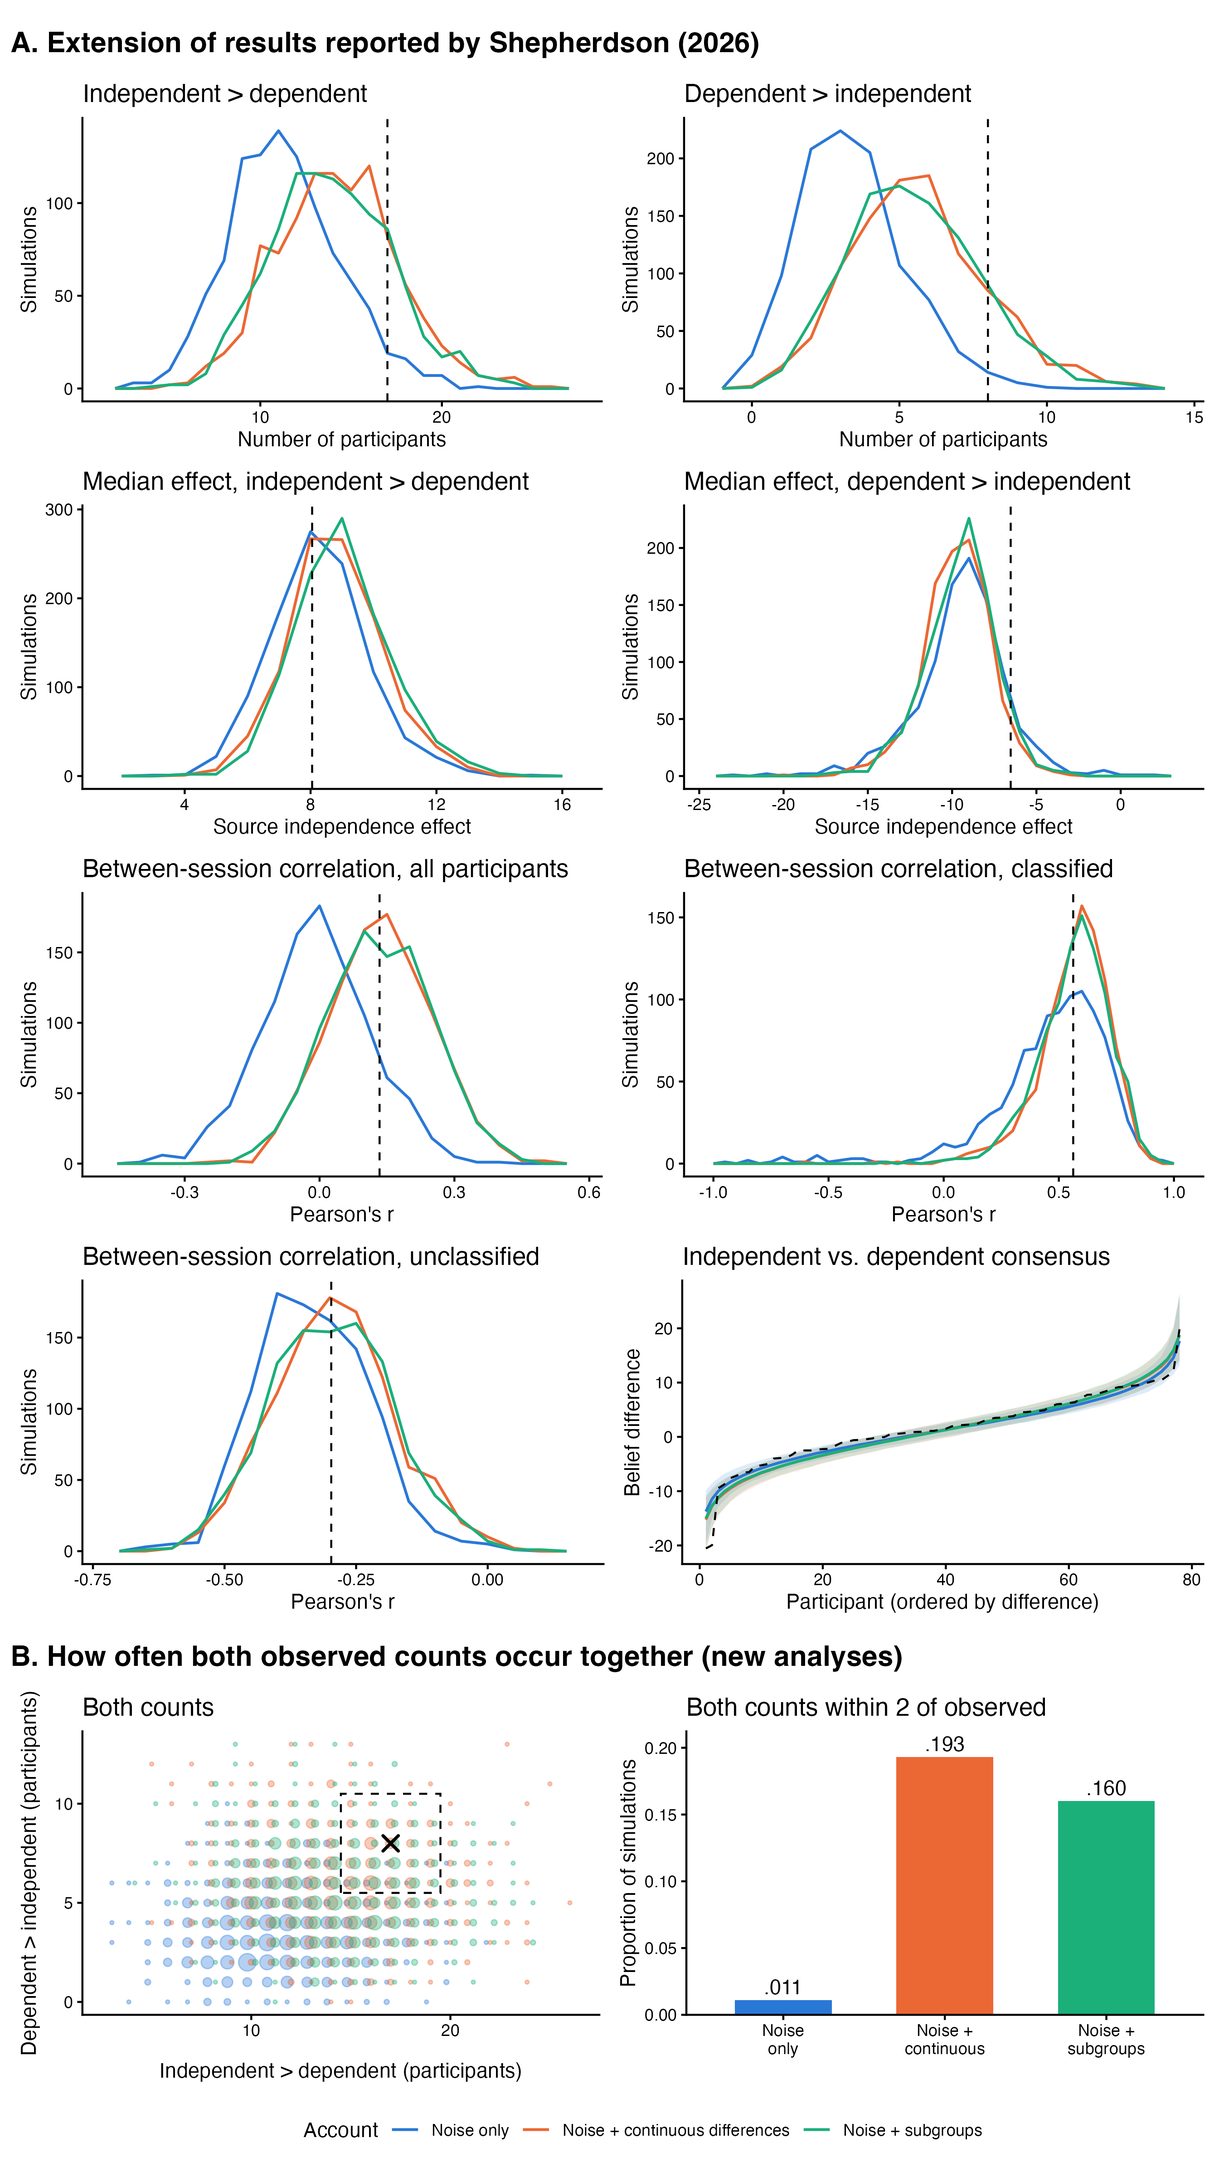
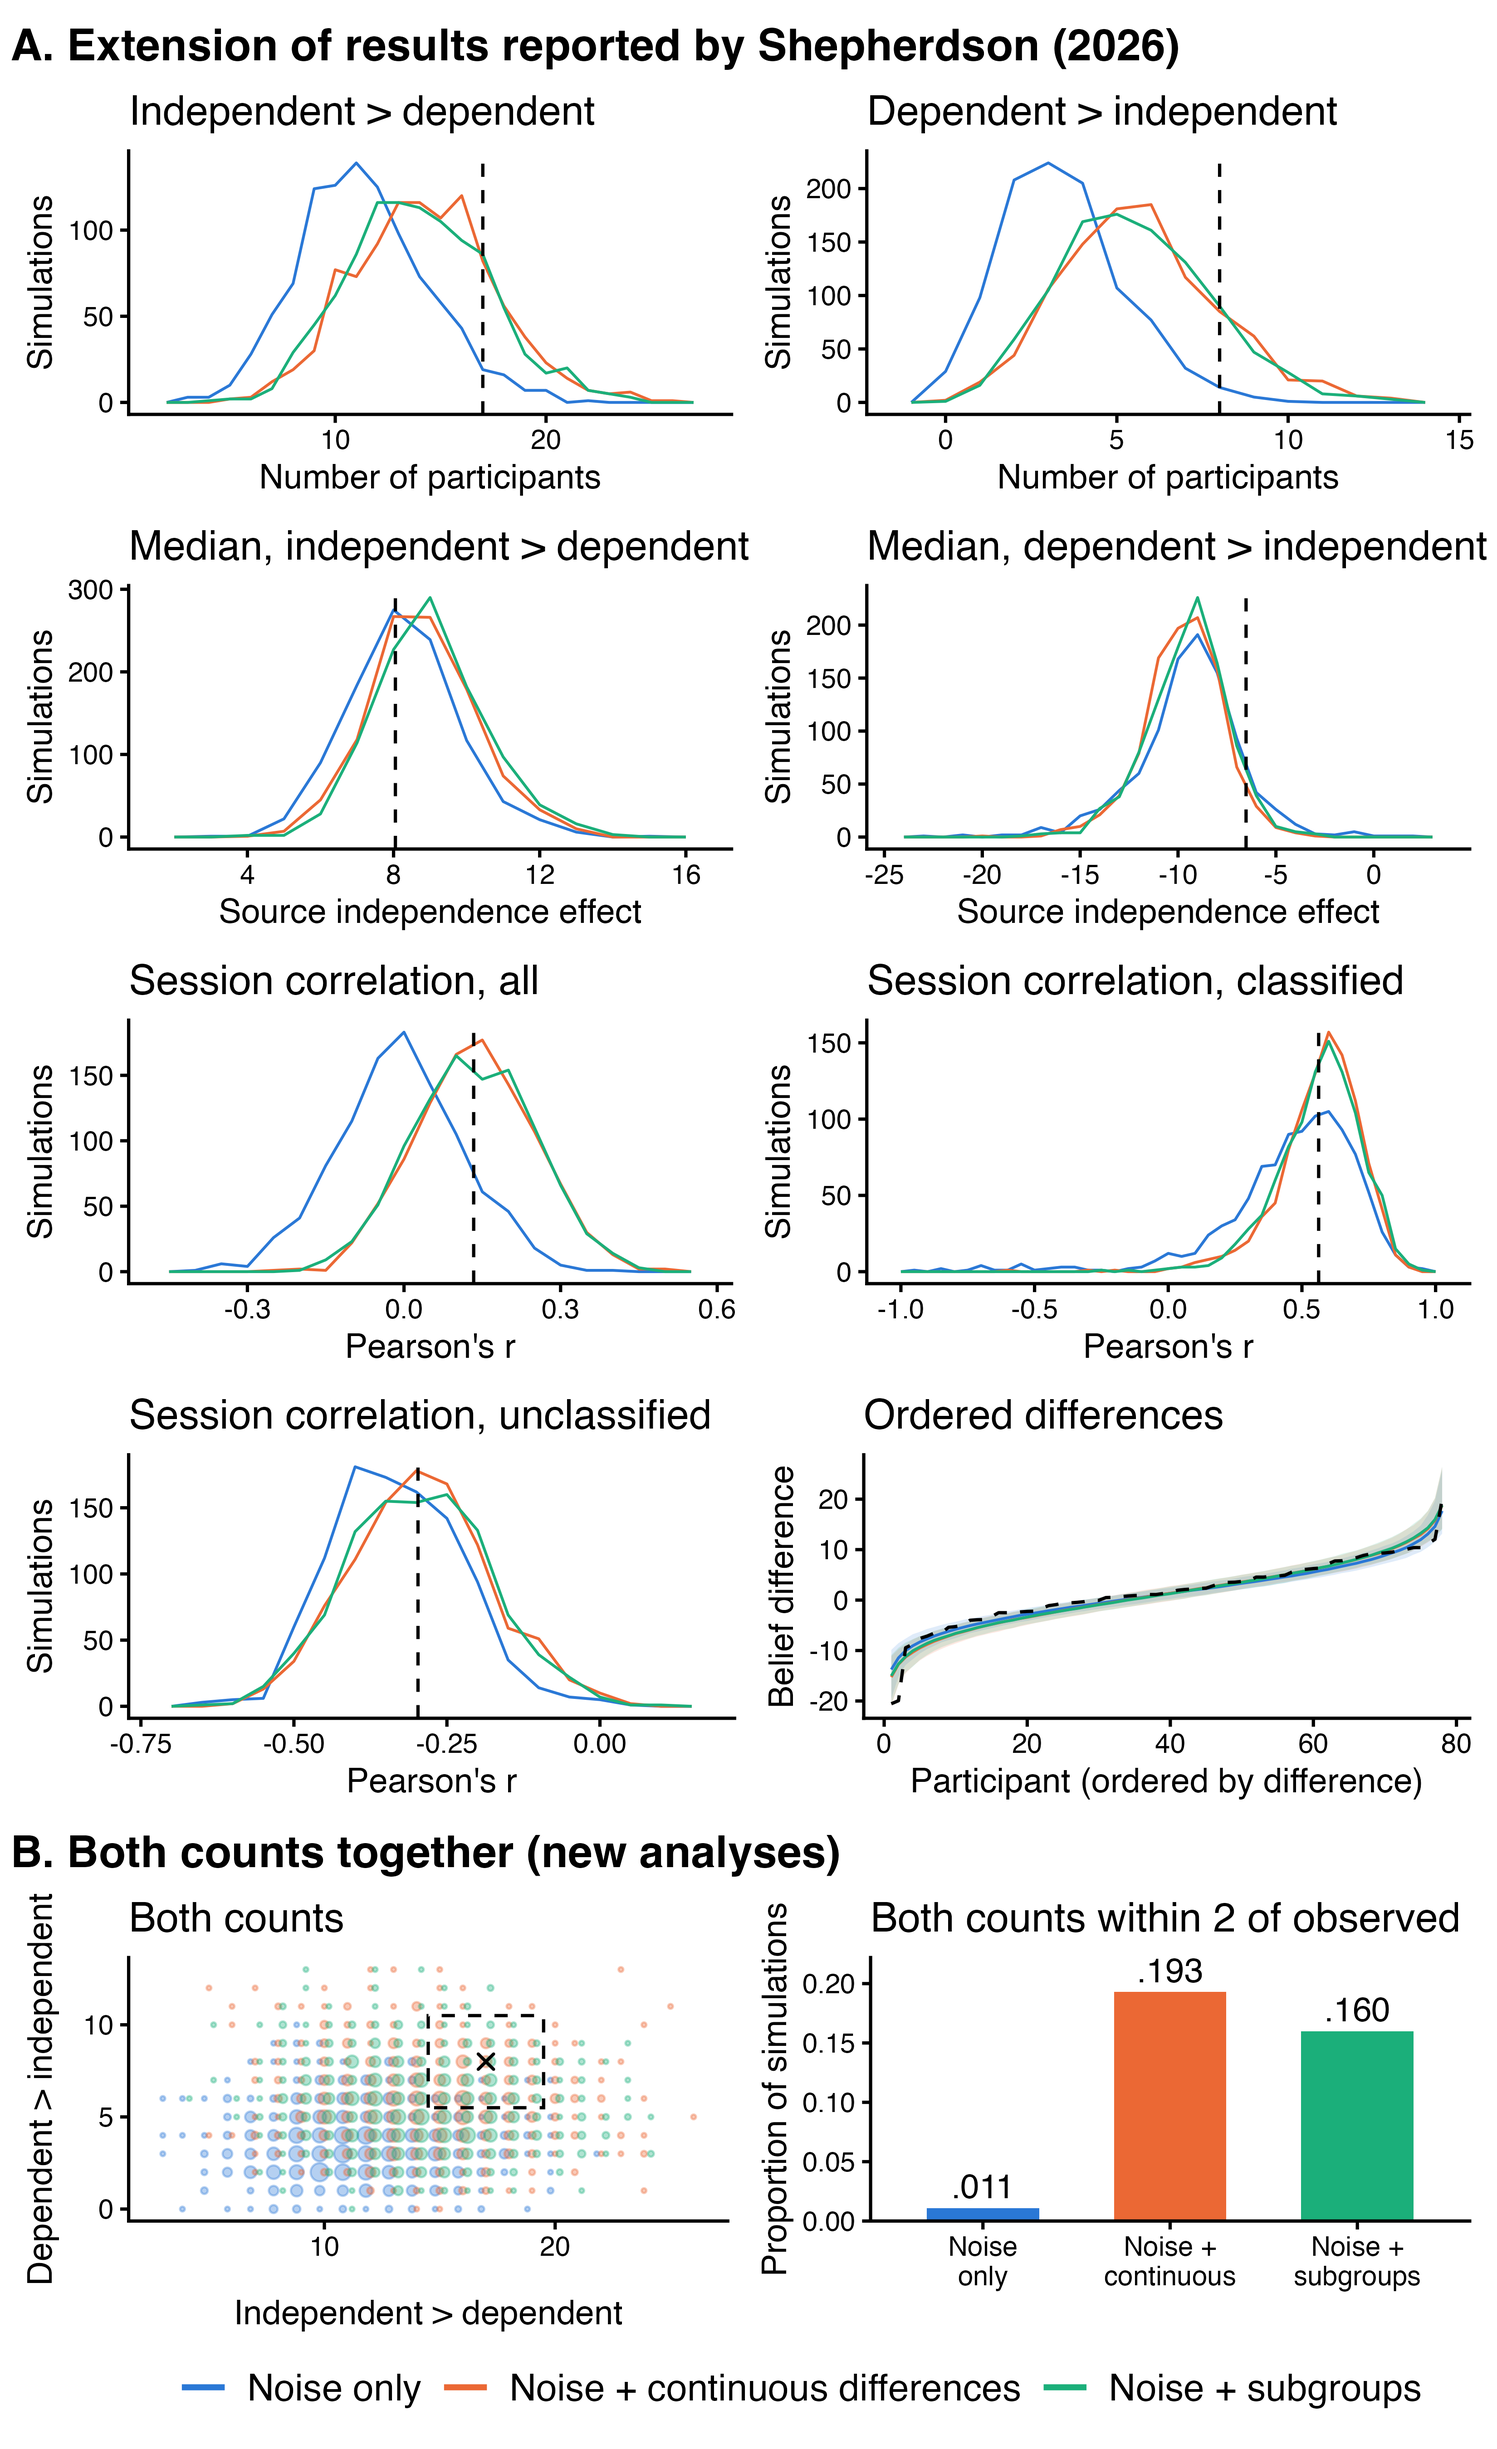
robustness tweaks

diff --git a/README.md b/README.md
@@ -46,7 +46,7 @@ All proportions are out of 1000 simulated datasets. "Times more often" compares 
 | Typical median effect among participants more persuaded by dependent consensus | about −9.5 under every model | `03_simulate_accounts.R` | `results/03_reproduce_counts.csv` (`median_median_dependent`) |
 | Figure 2 | | `04_plot_distributions.R` | `results/04_distributions.png` |
 | **Robustness checks (footnotes)** | | | |
-| Results for τ = 2.5, 3.45, 4 and 5 | systematic models above noise only at every τ; correlation matched most often at τ = 3.45 | `robustness/01_tau_sensitivity.R` | `robustness/results/01_tau_sensitivity.csv` |
+| Results for τ = 1.75, 2.5, 3.45, 4 and 5 (roughly half to one and a half times our estimate) | systematic models above noise only at every τ; correlation matched most often at τ = 3.45 | `robustness/01_tau_sensitivity.R` | `robustness/results/01_tau_sensitivity.csv` |
 | Both counts within 0 to 4 participants of ours | systematic models above noise only at every window (4 to 77 times) | `robustness/02_window_sensitivity.R` | `robustness/results/02_window_sensitivity.csv` |
 | Between-session correlation within .025 to .1 of ours | 1.8 to 2.4 times as often as noise only | `robustness/02_window_sensitivity.R` | `robustness/results/02_window_sensitivity_correlation.csv` |
 
@@ -60,7 +60,7 @@ All proportions are out of 1000 simulated datasets. "Times more often" compares 
 | `03_simulate_accounts.R` | Simulates 1000 datasets under each of three models (noise only, noise + continuous differences, noise + subgroups) and computes the same individual-level results as Shepherdson's simulations in each. |
 | `04_plot_distributions.R` | Figure 2, from the simulations saved by 03. |
 | `05_plot_likelihood_ratios.R` | Figure 1, from the simulations saved by 02. |
-| `robustness/01_tau_sensitivity.R` | Reruns the simulations in 03 with τ = 2.5, 3.45, 4 and 5. |
+| `robustness/01_tau_sensitivity.R` | Reruns the simulations in 03 with τ = 1.75, 2.5, 3.45, 4 and 5. |
 | `robustness/02_window_sensitivity.R` | Recomputes the window-based results of 03 with narrower and wider windows, from the simulations saved by 03. |
 | `run_all.R` | Runs all of the above in order. |
 
